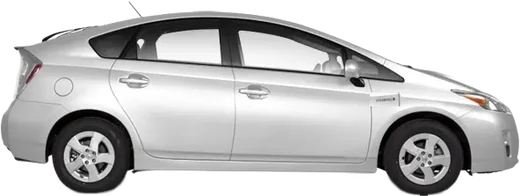
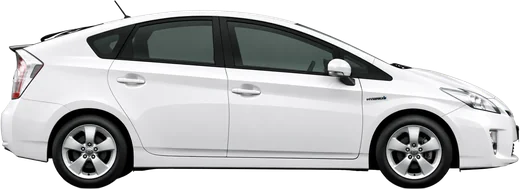
Maxcheck: Previa, Wish, sharper Prius and RAV4 side images from Wan's folder (cut out, facing right)

diff --git a/maxcheck/index.html b/maxcheck/index.html
@@ -48,7 +48,7 @@
     <h1><span class="l-en">Toyota Maxcheck service schedule</span><span class="l-bm" lang="ms">Jadual service Maxcheck Toyota</span></h1>
     <p class="p-lead"><span class="l-en">Choose your model to see its Maxcheck periodic service schedule straight away, then share it on WhatsApp or save the image. Based on Maxcheck on the Toyota Malaysia website (checked 27 November 2026), subject to change by Toyota without notice.</span><span class="l-bm" lang="ms">Tekan model kereta awak, terus keluar jadual service berkala Maxcheck, boleh kongsi ke WhatsApp atau simpan gambarnya. Rujukan Maxcheck di laman Toyota Malaysia (semakan 27 November 2026), tertakluk pada perubahan oleh Toyota tanpa notis.</span></p>
   </div>
-  <div class="mx-powers" id="mxList"><div class="mx-power mx-hev"><div class="mx-power-h"><h2>HEV</h2><span><span class="l-en">Hybrid Electric</span><span class="l-bm" lang="ms">Hybrid Electric</span></span></div><div class="mx-models"><button type="button" class="mx-card" data-id="yaris-cross-hev"><span class="mx-cimg"><img src="/img/side/yaris-cross-hev.webp" class="faces-left" alt="" loading="lazy"></span><b>Yaris Cross HEV</b></button><button type="button" class="mx-card" data-id="corolla-cross-hev"><span class="mx-cimg"><img src="/img/side/corolla-cross-hev.webp" class="faces-left" alt="" loading="lazy"></span><b>Corolla Cross HEV</b></button><button type="button" class="mx-card" data-id="camry-hev"><span class="mx-cimg"><img src="/img/side/camry-hev.webp" class="faces-left" alt="" loading="lazy"></span><b>Camry HEV</b></button><button type="button" class="mx-card" data-id="innova-zenix-hev"><span class="mx-cimg"><img src="/img/side/innova-zenix-hev.webp" class="faces-left" alt="" loading="lazy"></span><b>Innova Zenix HEV</b></button><button type="button" class="mx-card" data-id="vios-hev"><span class="mx-cimg"><img src="/img/side/vios-hev.webp" class="faces-left" alt="" loading="lazy"></span><b>Vios HEV</b></button><button type="button" class="mx-card" data-id="harrier-hev"><span class="mx-cimg"><img src="/img/side/harrier-hev.webp" class="faces-left" alt="" loading="lazy"></span><b>Harrier HEV</b></button><button type="button" class="mx-card" data-id="prius"><span class="mx-cimg"><img src="/img/side-extra/prius.webp" alt="" loading="lazy"></span><b>Prius</b></button><button type="button" class="mx-card" data-id="vellfire-hev"><span class="mx-cimg"><img src="/img/side/vellfire-hev.webp" class="faces-left" alt="" loading="lazy"></span><b>Vellfire HEV</b></button></div></div><div class="mx-power mx-ice"><div class="mx-power-h"><h2><span class="l-en">Petrol &amp; Diesel</span><span class="l-bm" lang="ms">Petrol &amp; Diesel</span></h2><span><span class="l-en">Conventional engine</span><span class="l-bm" lang="ms">Enjin biasa</span></span></div><div class="mx-list"><div class="mx-group"><h3>Sedan</h3><div class="mx-models"><button type="button" class="mx-card" data-id="corolla-altis"><span class="mx-cimg"><img src="/img/side/corolla.webp" class="faces-left" alt="" loading="lazy"></span><b>Corolla Altis</b></button><button type="button" class="mx-card" data-id="camry"><span class="mx-cimg"><img src="/img/side/camry.webp" class="faces-left" alt="" loading="lazy"></span><b>Camry</b></button><button type="button" class="mx-card" data-id="vios"><span class="mx-cimg"><img src="/img/side/vios.webp" class="faces-left" alt="" loading="lazy"></span><b>Vios</b></button></div></div><div class="mx-group"><h3>SUV</h3><div class="mx-models"><button type="button" class="mx-card" data-id="chr"><span class="mx-cimg"><img src="/img/side-extra/c-hr.webp" alt="" loading="lazy"></span><b>C-HR</b></button><button type="button" class="mx-card" data-id="corolla-cross"><span class="mx-cimg"><img src="/img/side/corolla-cross.webp" class="faces-left" alt="" loading="lazy"></span><b>Corolla Cross</b></button><button type="button" class="mx-card" data-id="fortuner"><span class="mx-cimg"><img src="/img/side/fortuner.webp" class="faces-left" alt="" loading="lazy"></span><b>Fortuner</b></button><button type="button" class="mx-card" data-id="rav-4"><span class="mx-cimg"><img src="/img/side-extra/rav4.webp" alt="" loading="lazy"></span><b>RAV4</b></button><button type="button" class="mx-card" data-id="rush"><span class="mx-cimg"><img src="/img/side-extra/rush.webp" alt="" loading="lazy"></span><b>Rush</b></button><button type="button" class="mx-card" data-id="harrier"><span class="mx-cimg"><img src="/img/side/harrier-hev.webp" class="faces-left" alt="" loading="lazy"></span><b>Harrier</b></button><button type="button" class="mx-card" data-id="yaris-cross-bsuv"><span class="mx-cimg"><img src="/img/side/yaris-cross.webp" class="faces-left" alt="" loading="lazy"></span><b>Yaris Cross</b></button></div></div><div class="mx-group"><h3>MPV</h3><div class="mx-models"><button type="button" class="mx-card" data-id="alphard"><span class="mx-cimg"><img src="/img/side/alphard.webp" class="faces-left" alt="" loading="lazy"></span><b>Alphard</b></button><button type="button" class="mx-card" data-id="avanza"><span class="mx-cimg"><img src="/img/side-extra/avanza.webp" alt="" loading="lazy"></span><b>Avanza</b></button><button type="button" class="mx-card" data-id="innova"><span class="mx-cimg"><img src="/img/side-extra/innova.webp" alt="" loading="lazy"></span><b>Innova</b></button><button type="button" class="mx-card" data-id="sienta"><span class="mx-cimg"><img src="/img/side-extra/sienta.webp" alt="" loading="lazy"></span><b>Sienta</b></button><button type="button" class="mx-card" data-id="vellfire"><span class="mx-cimg"><img src="/img/side/vellfire.webp" class="faces-left" alt="" loading="lazy"></span><b>Vellfire</b></button><button type="button" class="mx-card" data-id="veloz"><span class="mx-cimg"><img src="/img/side/veloz.webp" class="faces-left" alt="" loading="lazy"></span><b>Veloz</b></button></div></div><div class="mx-group"><h3>Pickup &amp; Van</h3><div class="mx-models"><button type="button" class="mx-card" data-id="hilux"><span class="mx-cimg"><img src="/img/side/hilux.webp" class="faces-left" alt="" loading="lazy"></span><b>Hilux</b></button><button type="button" class="mx-card" data-id="hiace"><span class="mx-cimg"><img src="/img/side/hiace.webp" class="faces-left" alt="" loading="lazy"></span><b>Hiace</b></button></div></div><div class="mx-group"><h3>Hatchback</h3><div class="mx-models"><button type="button" class="mx-card" data-id="yaris"><span class="mx-cimg"><img src="/img/side/yaris.webp" class="faces-left" alt="" loading="lazy"></span><b>Yaris</b></button></div></div><div class="mx-group"><h3>GR lineup</h3><div class="mx-models"><button type="button" class="mx-card" data-id="gr-supra"><span class="mx-cimg"><img src="/img/side-extra/gr-supra.webp" alt="" loading="lazy"></span><b>GR Supra</b></button><button type="button" class="mx-card" data-id="gr-yaris"><span class="mx-cimg"><img src="/img/side/gr-yaris.webp" class="faces-left" alt="" loading="lazy"></span><b>GR Yaris</b></button><button type="button" class="mx-card" data-id="gr-86"><span class="mx-cimg"><img src="/img/side/gr86.webp" class="faces-left" alt="" loading="lazy"></span><b>GR 86</b></button><button type="button" class="mx-card" data-id="gr-corolla"><span class="mx-cimg"><img src="/img/side/gr-corolla.webp" class="faces-left" alt="" loading="lazy"></span><b>GR Corolla</b></button><button type="button" class="mx-card" data-id="corolla-gr-sport"><span class="mx-cimg"><img src="/img/side/corolla-gr-sport.webp" class="faces-left" alt="" loading="lazy"></span><b>Corolla GR Sport</b></button><button type="button" class="mx-card" data-id="vios-grs"><span class="mx-cimg"><img src="/img/side/vios.webp" class="faces-left" alt="" loading="lazy"></span><b>Vios GR Sport</b></button><button type="button" class="mx-card" data-id="corolla-cross-gr-s"><span class="mx-cimg"><img src="/img/side/corolla-cross.webp" class="faces-left" alt="" loading="lazy"></span><b>Corolla Cross GR Sport</b></button><button type="button" class="mx-card" data-id="hilux-grs"><span class="mx-cimg"><img src="/img/side/hilux-gr-sport.webp" class="faces-left" alt="" loading="lazy"></span><b>Hilux GR Sport</b></button></div></div><div class="mx-group"><h3><span class="l-en">Others</span><span class="l-bm" lang="ms">Lain-lain</span></h3><div class="mx-models"><button type="button" class="mx-card" data-id="unser"><span class="mx-cimg"><img src="/img/side-extra/unser.webp" alt="" loading="lazy"></span><b>Unser</b></button><button type="button" class="mx-card" data-id="previa"><span class="mx-cimg none"><img src="/img/toyota-emblem.svg" alt="" loading="lazy"></span><b>Previa</b></button><button type="button" class="mx-card" data-id="wish"><span class="mx-cimg none"><img src="/img/toyota-emblem.svg" alt="" loading="lazy"></span><b>Wish</b></button><button type="button" class="mx-card" data-id="86"><span class="mx-cimg"><img src="/img/side-extra/toyota-86.webp" alt="" loading="lazy"></span><b>Toyota 86</b></button></div></div></div></div><div class="mx-power mx-bev"><div class="mx-power-h"><h2>BEV</h2><span><span class="l-en">Full electric</span><span class="l-bm" lang="ms">Elektrik penuh</span></span></div><div class="mx-models"><button type="button" class="mx-card" data-id="bz4x-hev"><span class="mx-cimg"><img src="/img/side/bz4x.webp" class="faces-left" alt="" loading="lazy"></span><b>bZ4X</b></button><button type="button" class="mx-card" data-id="urban-cruiser"><span class="mx-cimg"><img src="/img/side/urban-cruiser.webp" class="faces-left" alt="" loading="lazy"></span><b>Urban Cruiser</b></button><button type="button" class="mx-card" data-id="hilux-bev"><span class="mx-cimg"><img src="/img/side/hilux-bev.webp" class="faces-left" alt="" loading="lazy"></span><b>Hilux BEV</b></button></div></div></div>
+  <div class="mx-powers" id="mxList"><div class="mx-power mx-hev"><div class="mx-power-h"><h2>HEV</h2><span><span class="l-en">Hybrid Electric</span><span class="l-bm" lang="ms">Hybrid Electric</span></span></div><div class="mx-models"><button type="button" class="mx-card" data-id="yaris-cross-hev"><span class="mx-cimg"><img src="/img/side/yaris-cross-hev.webp" class="faces-left" alt="" loading="lazy"></span><b>Yaris Cross HEV</b></button><button type="button" class="mx-card" data-id="corolla-cross-hev"><span class="mx-cimg"><img src="/img/side/corolla-cross-hev.webp" class="faces-left" alt="" loading="lazy"></span><b>Corolla Cross HEV</b></button><button type="button" class="mx-card" data-id="camry-hev"><span class="mx-cimg"><img src="/img/side/camry-hev.webp" class="faces-left" alt="" loading="lazy"></span><b>Camry HEV</b></button><button type="button" class="mx-card" data-id="innova-zenix-hev"><span class="mx-cimg"><img src="/img/side/innova-zenix-hev.webp" class="faces-left" alt="" loading="lazy"></span><b>Innova Zenix HEV</b></button><button type="button" class="mx-card" data-id="vios-hev"><span class="mx-cimg"><img src="/img/side/vios-hev.webp" class="faces-left" alt="" loading="lazy"></span><b>Vios HEV</b></button><button type="button" class="mx-card" data-id="harrier-hev"><span class="mx-cimg"><img src="/img/side/harrier-hev.webp" class="faces-left" alt="" loading="lazy"></span><b>Harrier HEV</b></button><button type="button" class="mx-card" data-id="prius"><span class="mx-cimg"><img src="/img/side-extra/prius.webp" alt="" loading="lazy"></span><b>Prius</b></button><button type="button" class="mx-card" data-id="vellfire-hev"><span class="mx-cimg"><img src="/img/side/vellfire-hev.webp" class="faces-left" alt="" loading="lazy"></span><b>Vellfire HEV</b></button></div></div><div class="mx-power mx-ice"><div class="mx-power-h"><h2><span class="l-en">Petrol &amp; Diesel</span><span class="l-bm" lang="ms">Petrol &amp; Diesel</span></h2><span><span class="l-en">Conventional engine</span><span class="l-bm" lang="ms">Enjin biasa</span></span></div><div class="mx-list"><div class="mx-group"><h3>Sedan</h3><div class="mx-models"><button type="button" class="mx-card" data-id="corolla-altis"><span class="mx-cimg"><img src="/img/side/corolla.webp" class="faces-left" alt="" loading="lazy"></span><b>Corolla Altis</b></button><button type="button" class="mx-card" data-id="camry"><span class="mx-cimg"><img src="/img/side/camry.webp" class="faces-left" alt="" loading="lazy"></span><b>Camry</b></button><button type="button" class="mx-card" data-id="vios"><span class="mx-cimg"><img src="/img/side/vios.webp" class="faces-left" alt="" loading="lazy"></span><b>Vios</b></button></div></div><div class="mx-group"><h3>SUV</h3><div class="mx-models"><button type="button" class="mx-card" data-id="chr"><span class="mx-cimg"><img src="/img/side-extra/c-hr.webp" alt="" loading="lazy"></span><b>C-HR</b></button><button type="button" class="mx-card" data-id="corolla-cross"><span class="mx-cimg"><img src="/img/side/corolla-cross.webp" class="faces-left" alt="" loading="lazy"></span><b>Corolla Cross</b></button><button type="button" class="mx-card" data-id="fortuner"><span class="mx-cimg"><img src="/img/side/fortuner.webp" class="faces-left" alt="" loading="lazy"></span><b>Fortuner</b></button><button type="button" class="mx-card" data-id="rav-4"><span class="mx-cimg"><img src="/img/side-extra/rav4.webp" alt="" loading="lazy"></span><b>RAV4</b></button><button type="button" class="mx-card" data-id="rush"><span class="mx-cimg"><img src="/img/side-extra/rush.webp" alt="" loading="lazy"></span><b>Rush</b></button><button type="button" class="mx-card" data-id="harrier"><span class="mx-cimg"><img src="/img/side/harrier-hev.webp" class="faces-left" alt="" loading="lazy"></span><b>Harrier</b></button><button type="button" class="mx-card" data-id="yaris-cross-bsuv"><span class="mx-cimg"><img src="/img/side/yaris-cross.webp" class="faces-left" alt="" loading="lazy"></span><b>Yaris Cross</b></button></div></div><div class="mx-group"><h3>MPV</h3><div class="mx-models"><button type="button" class="mx-card" data-id="alphard"><span class="mx-cimg"><img src="/img/side/alphard.webp" class="faces-left" alt="" loading="lazy"></span><b>Alphard</b></button><button type="button" class="mx-card" data-id="avanza"><span class="mx-cimg"><img src="/img/side-extra/avanza.webp" alt="" loading="lazy"></span><b>Avanza</b></button><button type="button" class="mx-card" data-id="innova"><span class="mx-cimg"><img src="/img/side-extra/innova.webp" alt="" loading="lazy"></span><b>Innova</b></button><button type="button" class="mx-card" data-id="sienta"><span class="mx-cimg"><img src="/img/side-extra/sienta.webp" alt="" loading="lazy"></span><b>Sienta</b></button><button type="button" class="mx-card" data-id="vellfire"><span class="mx-cimg"><img src="/img/side/vellfire.webp" class="faces-left" alt="" loading="lazy"></span><b>Vellfire</b></button><button type="button" class="mx-card" data-id="veloz"><span class="mx-cimg"><img src="/img/side/veloz.webp" class="faces-left" alt="" loading="lazy"></span><b>Veloz</b></button></div></div><div class="mx-group"><h3>Pickup &amp; Van</h3><div class="mx-models"><button type="button" class="mx-card" data-id="hilux"><span class="mx-cimg"><img src="/img/side/hilux.webp" class="faces-left" alt="" loading="lazy"></span><b>Hilux</b></button><button type="button" class="mx-card" data-id="hiace"><span class="mx-cimg"><img src="/img/side/hiace.webp" class="faces-left" alt="" loading="lazy"></span><b>Hiace</b></button></div></div><div class="mx-group"><h3>Hatchback</h3><div class="mx-models"><button type="button" class="mx-card" data-id="yaris"><span class="mx-cimg"><img src="/img/side/yaris.webp" class="faces-left" alt="" loading="lazy"></span><b>Yaris</b></button></div></div><div class="mx-group"><h3>GR lineup</h3><div class="mx-models"><button type="button" class="mx-card" data-id="gr-supra"><span class="mx-cimg"><img src="/img/side-extra/gr-supra.webp" alt="" loading="lazy"></span><b>GR Supra</b></button><button type="button" class="mx-card" data-id="gr-yaris"><span class="mx-cimg"><img src="/img/side/gr-yaris.webp" class="faces-left" alt="" loading="lazy"></span><b>GR Yaris</b></button><button type="button" class="mx-card" data-id="gr-86"><span class="mx-cimg"><img src="/img/side/gr86.webp" class="faces-left" alt="" loading="lazy"></span><b>GR 86</b></button><button type="button" class="mx-card" data-id="gr-corolla"><span class="mx-cimg"><img src="/img/side/gr-corolla.webp" class="faces-left" alt="" loading="lazy"></span><b>GR Corolla</b></button><button type="button" class="mx-card" data-id="corolla-gr-sport"><span class="mx-cimg"><img src="/img/side/corolla-gr-sport.webp" class="faces-left" alt="" loading="lazy"></span><b>Corolla GR Sport</b></button><button type="button" class="mx-card" data-id="vios-grs"><span class="mx-cimg"><img src="/img/side/vios.webp" class="faces-left" alt="" loading="lazy"></span><b>Vios GR Sport</b></button><button type="button" class="mx-card" data-id="corolla-cross-gr-s"><span class="mx-cimg"><img src="/img/side/corolla-cross.webp" class="faces-left" alt="" loading="lazy"></span><b>Corolla Cross GR Sport</b></button><button type="button" class="mx-card" data-id="hilux-grs"><span class="mx-cimg"><img src="/img/side/hilux-gr-sport.webp" class="faces-left" alt="" loading="lazy"></span><b>Hilux GR Sport</b></button></div></div><div class="mx-group"><h3><span class="l-en">Others</span><span class="l-bm" lang="ms">Lain-lain</span></h3><div class="mx-models"><button type="button" class="mx-card" data-id="unser"><span class="mx-cimg"><img src="/img/side-extra/unser.webp" alt="" loading="lazy"></span><b>Unser</b></button><button type="button" class="mx-card" data-id="previa"><span class="mx-cimg"><img src="/img/side-extra/previa.webp" alt="" loading="lazy"></span><b>Previa</b></button><button type="button" class="mx-card" data-id="wish"><span class="mx-cimg"><img src="/img/side-extra/wish.webp" alt="" loading="lazy"></span><b>Wish</b></button><button type="button" class="mx-card" data-id="86"><span class="mx-cimg"><img src="/img/side-extra/toyota-86.webp" alt="" loading="lazy"></span><b>Toyota 86</b></button></div></div></div></div><div class="mx-power mx-bev"><div class="mx-power-h"><h2>BEV</h2><span><span class="l-en">Full electric</span><span class="l-bm" lang="ms">Elektrik penuh</span></span></div><div class="mx-models"><button type="button" class="mx-card" data-id="bz4x-hev"><span class="mx-cimg"><img src="/img/side/bz4x.webp" class="faces-left" alt="" loading="lazy"></span><b>bZ4X</b></button><button type="button" class="mx-card" data-id="urban-cruiser"><span class="mx-cimg"><img src="/img/side/urban-cruiser.webp" class="faces-left" alt="" loading="lazy"></span><b>Urban Cruiser</b></button><button type="button" class="mx-card" data-id="hilux-bev"><span class="mx-cimg"><img src="/img/side/hilux-bev.webp" class="faces-left" alt="" loading="lazy"></span><b>Hilux BEV</b></button></div></div></div>
   <div class="mx-view" id="mxView" hidden></div>
   <noscript><p class="p-note">Enable JavaScript to view the schedules, or open the Maxcheck page on the Toyota Malaysia website.</p></noscript>
   <p class="mx-src"><a href="https://www.toyota.com.my/en/servicing-and-support/maxcheck.html" target="_blank" rel="noopener"><span class="l-en">Source: Maxcheck on the Toyota Malaysia website ›</span><span class="l-bm" lang="ms">Sumber: Maxcheck di laman Toyota Malaysia ›</span></a></p>
